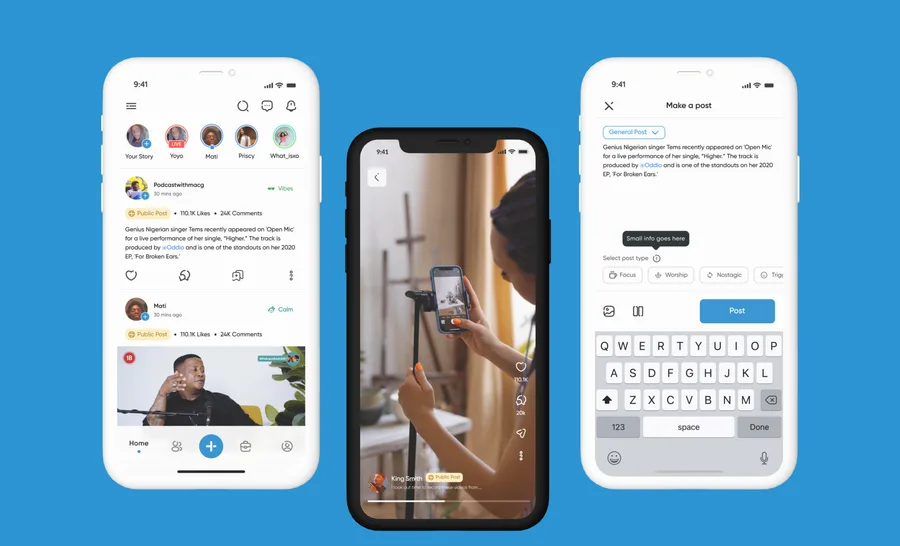
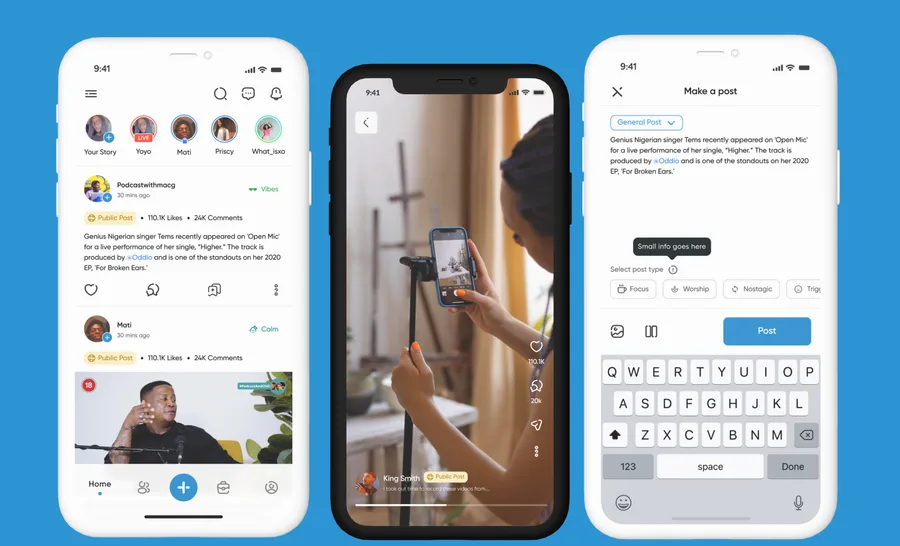
Toteez: designer Prisca + Mati; thumbnail uses the updated mockup
Hero image is intentionally left on the original mockup; only the card
thumbnail (works/toteez/thumb.webp) is regenerated from the new mockup.

diff --git a/toteez.html b/toteez.html
@@ -173,7 +173,7 @@
         <div class="cs-facts">
           <div class="f"><span class="k">Period</span><span class="v">2025</span></div>
           <div class="f"><span class="k">Length of read</span><span class="v">4 min read</span></div>
-          <div class="f"><span class="k">Designer</span><span class="v">Prisca Olatunji</span></div>
+          <div class="f"><span class="k">Designer</span><span class="v">Prisca Olatunji, Mati</span></div>
         </div>
       </div>
     </section>
